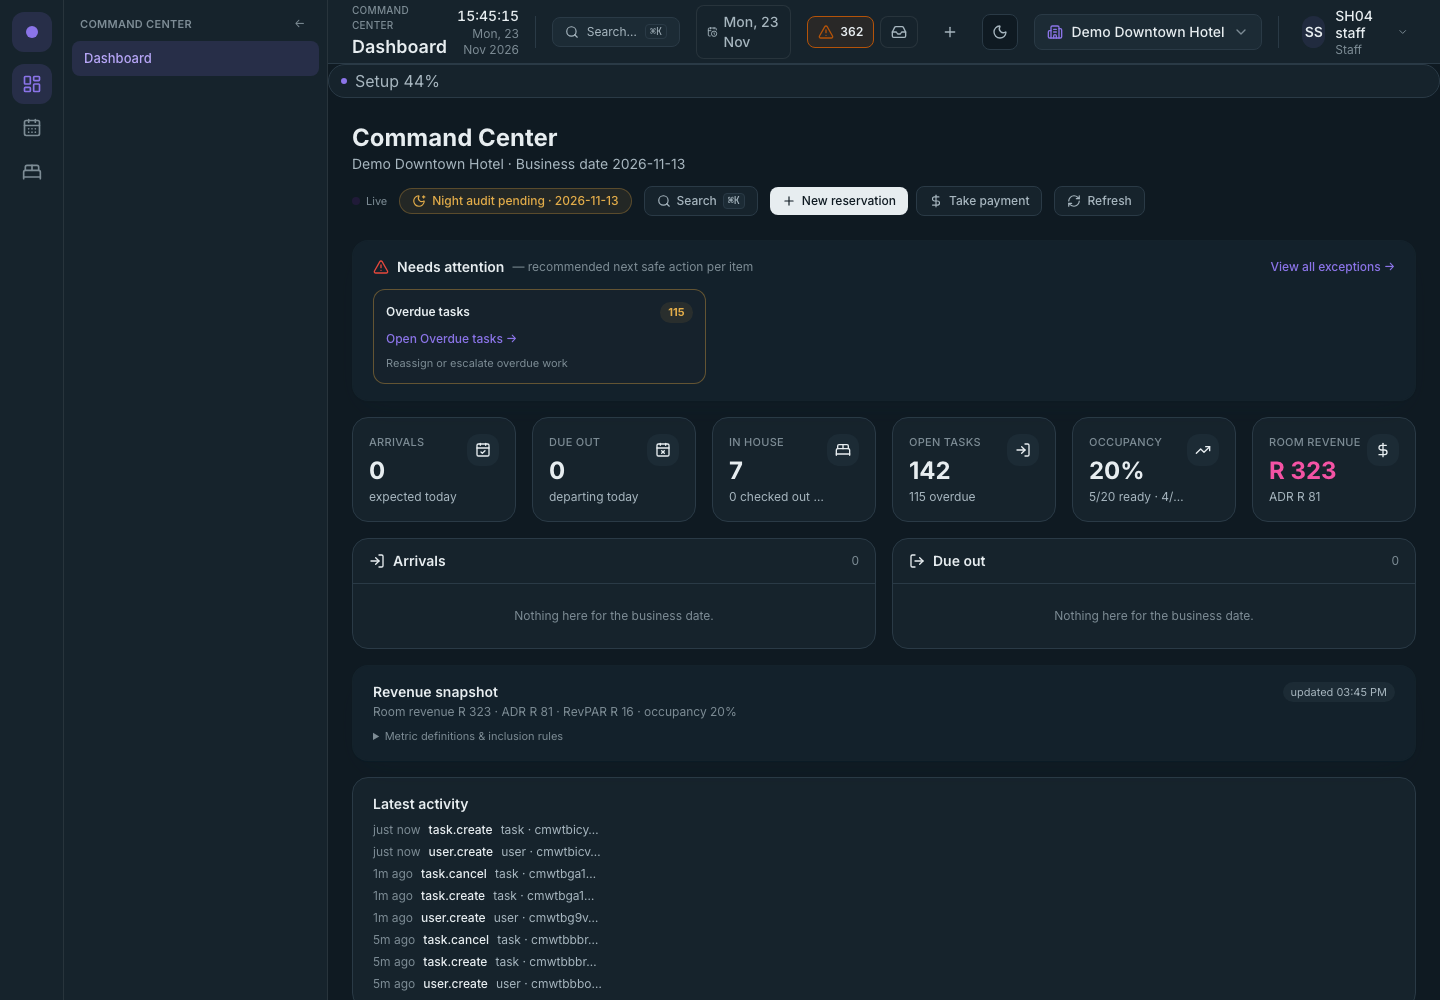
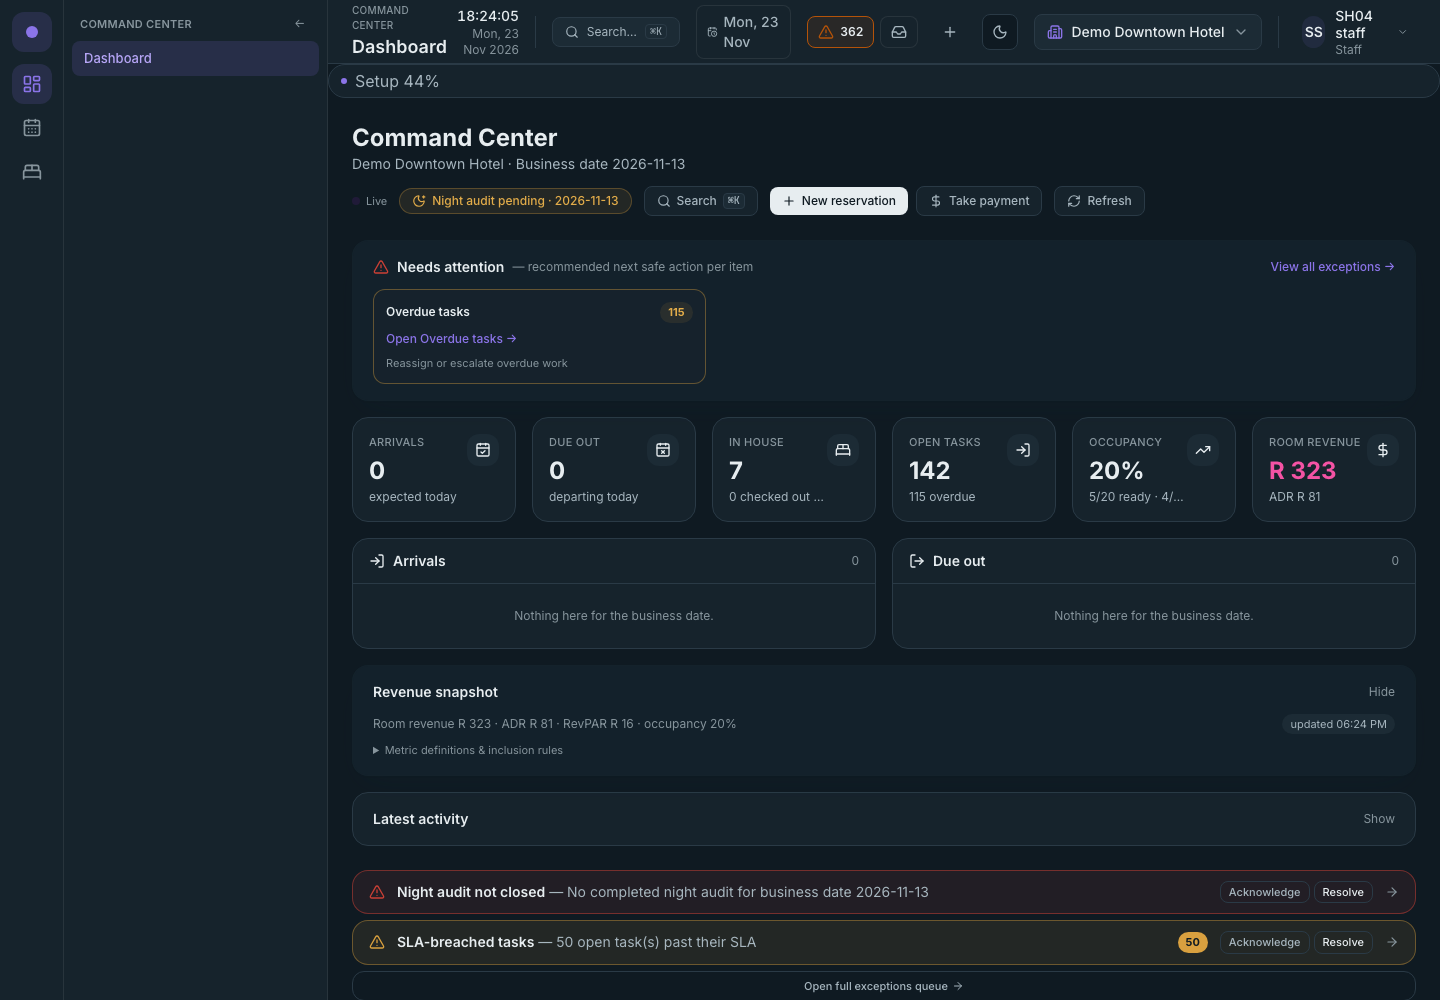
feat(cockpit): de-crowd — revenue snapshot and latest activity behind accessible toggles (aria-expanded, revenue default-open, activity default-closed per the zone hierarchy); glass focal surface preserved; sh04 walk re-evidenced 13/13

diff --git a/apps/web/src/app/app/dashboard/TodayCockpit.jsx b/apps/web/src/app/app/dashboard/TodayCockpit.jsx
@@ -269,6 +269,8 @@ export default function TodayCockpit({ propertyId, onMutated }) {
   const queryClient = useQueryClient();
   const [busyId, setBusyId] = useState(null);
   const [actionError, setActionError] = useState(null);
+  const [revOpen, setRevOpen] = useState(true);
+  const [actOpen, setActOpen] = useState(false);
 
   const runAction = async (item, action) => {
     setBusyId(item.id);
@@ -398,19 +400,28 @@ export default function TodayCockpit({ propertyId, onMutated }) {
 
       {/* Revenue insight — glass focal surface with definitions + freshness */}
       <div className="glass rounded-xl px-5 py-4">
-        <div className="flex flex-wrap items-start justify-between gap-3">
-          <div>
-            <h3 className="text-sm font-semibold text-text-primary">Revenue snapshot</h3>
-            <p className="mt-0.5 text-xs text-text-muted">
-              Room revenue {money(d.revenue.roomRevenueToday, currency)} · ADR{' '}
-              {money(d.revenue.adr, currency)} · RevPAR {money(d.revenue.revpar, currency)} ·
-              occupancy {d.revenue.occupancyPct}%
-            </p>
+        <button
+          onClick={() => setRevOpen((o) => !o)}
+          aria-expanded={revOpen}
+          className="flex w-full items-center justify-between text-left"
+        >
+          <h3 className="text-sm font-semibold text-text-primary">Revenue snapshot</h3>
+          <span className="text-xs text-text-muted">{revOpen ? 'Hide' : 'Show'}</span>
+        </button>
+        {revOpen && (
+          <div className="mt-3 flex flex-wrap items-start justify-between gap-3">
+            <div>
+              <p className="mt-0.5 text-xs text-text-muted">
+                Room revenue {money(d.revenue.roomRevenueToday, currency)} · ADR{' '}
+                {money(d.revenue.adr, currency)} · RevPAR {money(d.revenue.revpar, currency)} ·
+                occupancy {d.revenue.occupancyPct}%
+              </p>
+            </div>
+            <span className="rounded-full bg-surface-elevated px-2 py-0.5 text-[11px] text-text-secondary">
+              updated {revenueFresh}
+            </span>
           </div>
-          <span className="rounded-full bg-surface-elevated px-2 py-0.5 text-[11px] text-text-secondary">
-            updated {revenueFresh}
-          </span>
-        </div>
+        )}
         <details className="mt-2">
           <summary className="cursor-pointer text-[11px] text-text-muted hover:text-text-secondary">
             Metric definitions & inclusion rules
@@ -423,22 +434,31 @@ export default function TodayCockpit({ propertyId, onMutated }) {
 
       {/* Activity timeline */}
       <div className="rounded-xl border border-border bg-surface px-5 py-4">
-        <h3 className="text-sm font-semibold text-text-primary">Latest activity</h3>
-        <ul className="mt-2 space-y-1.5">
-          {d.activity.slice(0, 8).map((a, i) => (
-            <li key={`${a.at}-${i}`} className="flex items-baseline gap-2 text-xs">
-              <span className="shrink-0 text-text-muted">{relTime(a.at)}</span>
-              <span className="shrink-0 font-medium text-text-primary">{a.action}</span>
-              <span className="truncate text-text-secondary">
-                {a.entity}
-                {a.entityId ? ` · ${a.entityId.slice(0, 8)}…` : ''}
-              </span>
-            </li>
-          ))}
-          {d.activity.length === 0 && (
-            <li className="text-xs text-text-muted">No activity recorded yet today.</li>
-          )}
-        </ul>
+        <button
+          onClick={() => setActOpen((o) => !o)}
+          aria-expanded={actOpen}
+          className="flex w-full items-center justify-between text-left"
+        >
+          <h3 className="text-sm font-semibold text-text-primary">Latest activity</h3>
+          <span className="text-xs text-text-muted">{actOpen ? 'Hide' : 'Show'}</span>
+        </button>
+        {actOpen && (
+          <ul className="mt-2 space-y-1.5">
+            {d.activity.slice(0, 8).map((a, i) => (
+              <li key={`${a.at}-${i}`} className="flex items-baseline gap-2 text-xs">
+                <span className="shrink-0 text-text-muted">{relTime(a.at)}</span>
+                <span className="shrink-0 font-medium text-text-primary">{a.action}</span>
+                <span className="truncate text-text-secondary">
+                  {a.entity}
+                  {a.entityId ? ` · ${a.entityId.slice(0, 8)}…` : ''}
+                </span>
+              </li>
+            ))}
+            {d.activity.length === 0 && (
+              <li className="text-xs text-text-muted">No activity recorded yet today.</li>
+            )}
+          </ul>
+        )}
       </div>
     </section>
   );
